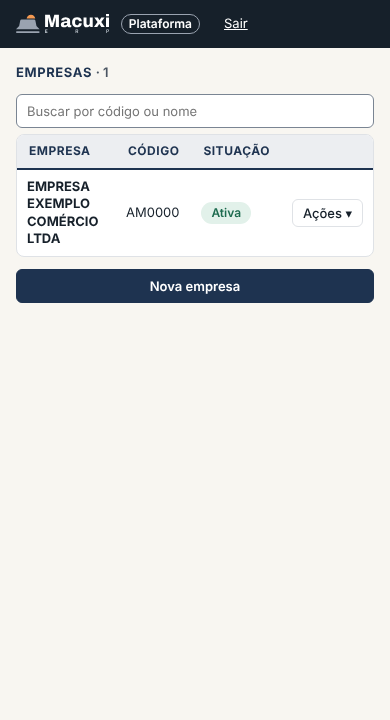
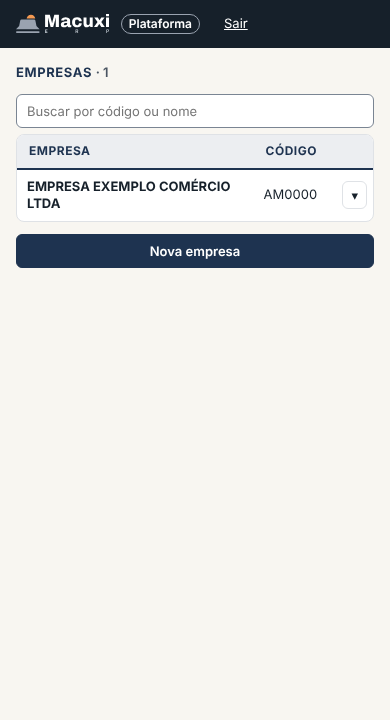
[T-0116] design: lista de empresas no 390 sem rolagem horizontal (Ações só com ▾)
Agente: designer-ux

Claude-Session: https://claude.ai/code/session_0157qAhnDKsXLybT3X6i65kG

Changed region(s): [[0.0308, 0.2444, 0.9846, 0.4278], [0.5231, 0.1833, 0.8, 0.2139], [0.3385, 0.1833, 0.4615, 0.2139]]

diff --git a/docs/design/empresas-lista/lista-1-linha.html b/docs/design/empresas-lista/lista-1-linha.html
@@ -17,7 +17,7 @@ td{padding:0 12px;height:var(--mx-medida-altura-linha-tabela);border-bottom:1px 
 .btn{height:var(--campo);padding:0 14px;border:1px solid var(--borda);background:#fff;border-radius:6px;font:600 var(--f) var(--mx-fonte-texto);color:var(--texto)}.btn.p{background:var(--azul);color:#fff;border-color:var(--azul)}.btn.menu{height:28px;padding:0 10px;font-weight:500}
 .ac{text-align:right;white-space:nowrap!important}.btn{white-space:nowrap}
 .rodape{display:flex;justify-content:flex-end;gap:8px;margin-top:12px}
-@media (max-width:767px){.pg{padding:16px}.topo{padding:0 16px}.sim,.nome{display:none}.tit input{width:100%;margin-left:0}.tit{flex-wrap:wrap}.card{overflow-x:auto}td{white-space:normal;height:auto;padding:8px 10px}tr>*:nth-child(n+5):not(:last-child),tr>*:nth-child(3){display:none}.rodape .btn{flex:1}}
+@media (max-width:767px){.pg{padding:16px}.topo{padding:0 16px}.sim,.nome{display:none}.tit input{width:100%;margin-left:0}.tit{flex-wrap:wrap}.card{overflow-x:auto}td{white-space:normal;height:auto;padding:8px 10px}tr>*:nth-child(n+3):not(:last-child){display:none}.card{overflow:hidden}td.ac,th:last-child{width:44px;padding:0 6px}.btn.menu{padding:0 8px;font-size:0}.btn.menu::before{content:"▾";font-size:var(--f)}.rodape .btn{flex:1}}
 </style></head><body>
 <div class="topo"><img src="../../marca/ativos/2026-11-22-v1/macuxi-erp-a-negativo-grafite.svg" alt="Macuxi ERP"><span class="plat">Plataforma</span><span class="sim">SIMULAÇÃO · dados fictícios</span><span class="usr"><span class="nome">Superadmin Fictício · </span><a href="#">Sair</a></span></div>
 <div class="pg"><div class="tit"><h1>Empresas <span class="n">· 1</span></h1><input id="q" type="search" placeholder="Buscar por código ou nome" aria-label="Buscar por código ou nome"></div>

diff --git a/docs/design/empresas-lista/lista.html b/docs/design/empresas-lista/lista.html
@@ -17,7 +17,7 @@ td{padding:0 12px;height:var(--mx-medida-altura-linha-tabela);border-bottom:1px 
 .btn{height:var(--campo);padding:0 14px;border:1px solid var(--borda);background:#fff;border-radius:6px;font:600 var(--f) var(--mx-fonte-texto);color:var(--texto)}.btn.p{background:var(--azul);color:#fff;border-color:var(--azul)}.btn.menu{height:28px;padding:0 10px;font-weight:500}
 .ac{text-align:right;white-space:nowrap!important}.btn{white-space:nowrap}
 .rodape{display:flex;justify-content:flex-end;gap:8px;margin-top:12px}
-@media (max-width:767px){.pg{padding:16px}.topo{padding:0 16px}.sim,.nome{display:none}.tit input{width:100%;margin-left:0}.tit{flex-wrap:wrap}.card{overflow-x:auto}td{white-space:normal;height:auto;padding:8px 10px}tr>*:nth-child(n+5):not(:last-child),tr>*:nth-child(3){display:none}.rodape .btn{flex:1}}
+@media (max-width:767px){.pg{padding:16px}.topo{padding:0 16px}.sim,.nome{display:none}.tit input{width:100%;margin-left:0}.tit{flex-wrap:wrap}.card{overflow-x:auto}td{white-space:normal;height:auto;padding:8px 10px}tr>*:nth-child(n+3):not(:last-child){display:none}.card{overflow:hidden}td.ac,th:last-child{width:44px;padding:0 6px}.btn.menu{padding:0 8px;font-size:0}.btn.menu::before{content:"▾";font-size:var(--f)}.rodape .btn{flex:1}}
 </style></head><body>
 <div class="topo"><img src="../../marca/ativos/2026-11-22-v1/macuxi-erp-a-negativo-grafite.svg" alt="Macuxi ERP"><span class="plat">Plataforma</span><span class="sim">SIMULAÇÃO · dados fictícios</span><span class="usr"><span class="nome">Superadmin Fictício · </span><a href="#">Sair</a></span></div>
 <div class="pg"><div class="tit"><h1>Empresas <span class="n">· 4</span></h1><input id="q" type="search" placeholder="Buscar por código ou nome" aria-label="Buscar por código ou nome"></div>

diff --git a/docs/design/empresas-lista/gerar.py b/docs/design/empresas-lista/gerar.py
@@ -20,7 +20,7 @@ td{padding:0 12px;height:var(--mx-medida-altura-linha-tabela);border-bottom:1px 
 .btn{height:var(--campo);padding:0 14px;border:1px solid var(--borda);background:#fff;border-radius:6px;font:600 var(--f) var(--mx-fonte-texto);color:var(--texto)}.btn.p{background:var(--azul);color:#fff;border-color:var(--azul)}.btn.menu{height:28px;padding:0 10px;font-weight:500}
 .ac{text-align:right;white-space:nowrap!important}.btn{white-space:nowrap}
 .rodape{display:flex;justify-content:flex-end;gap:8px;margin-top:12px}
-@media (max-width:767px){.pg{padding:16px}.topo{padding:0 16px}.sim,.nome{display:none}.tit input{width:100%;margin-left:0}.tit{flex-wrap:wrap}.card{overflow-x:auto}td{white-space:normal;height:auto;padding:8px 10px}tr>*:nth-child(n+5):not(:last-child),tr>*:nth-child(3){display:none}.rodape .btn{flex:1}}
+@media (max-width:767px){.pg{padding:16px}.topo{padding:0 16px}.sim,.nome{display:none}.tit input{width:100%;margin-left:0}.tit{flex-wrap:wrap}.card{overflow-x:auto}td{white-space:normal;height:auto;padding:8px 10px}tr>*:nth-child(n+3):not(:last-child){display:none}.card{overflow:hidden}td.ac,th:last-child{width:44px;padding:0 6px}.btn.menu{padding:0 8px;font-size:0}.btn.menu::before{content:"▾";font-size:var(--f)}.rodape .btn{flex:1}}
 """
 EM=[('EMPRESA EXEMPLO COMÉRCIO LTDA','AM0000','00.000.000/0001-00','Ativa','Cadastros · Pedidos · Faturamento · Fiscal · Integração FDV','<span class="selo al">Com recusas</span>','22/11/2026'),
 ('DISTRIBUIDORA FICTÍCIA DO NORTE LTDA','AM0001','00.000.000/0002-80','Ativa','Cadastros · Pedidos · Integração FDV','<span class="selo">Ligada</span>','12/11/2026'),
